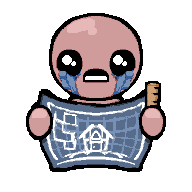
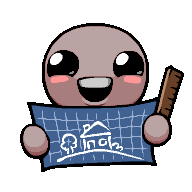
Home page renovation

diff --git a/docs/index.md b/docs/index.md
@@ -2,11 +2,13 @@
 search:
     boost: -999
 ---
-# Home
+# Isaac Blueprints
 <img align="right" src="./tutorials/assets/isaacsblueprints.png" />
 Modding The Binding of Isaac can be fun, but it can also be complicated and esoteric. While the community documentation is an invaluable resource, there are some hidden bits of knowledge that simply don't have a place there that are still incredibly useful to know. The goal of Isaac Blueprints is to create a single resource with tutorials on numerous topics, from the nichest interactions to the most common questions.
 
-Curated by the community, anyone can contribute: even you!
+Curated by the community, [anyone can contribute: even you!](./contribution_guide.md)
+
+<img align="left" src="./tutorials/assets/crashcourse.png" />
 
 ## Crash course
 Isaac Blueprints offers a full series of tutorials to get started with modding. Below is a table of contents:
@@ -14,10 +16,6 @@ Isaac Blueprints offers a full series of tutorials to get started with modding. 
 {% include-markdown "hidden/crash_course_toc.md" start="<!-- start -->" end="<!-- end -->" %}
 
 ## Resources
-
 * [wofsauge's community documentation](https://wofsauge.github.io/IsaacDocs/rep/index.html) is the cornerstone of Isaac modding. If you're ever unsure about something, this is a good place to look.
 * [catinsurance's tutorial series](https://www.youtube.com/playlist?list=PLkIbky8_pFUpqAF9l7dh_YsEV-zpJ4q50) covers the basics and not much else. Written versions of these tutorials can be found on this website.
 * [Further resources can be found by clicking here](./resources.md).
-
-## Support
-I pay for the hosting for this website out of pocket. Support me on Ko-Fi if you feel like it: [https://ko-fi.com/catinsurance](https://ko-fi.com/catinsurance)
